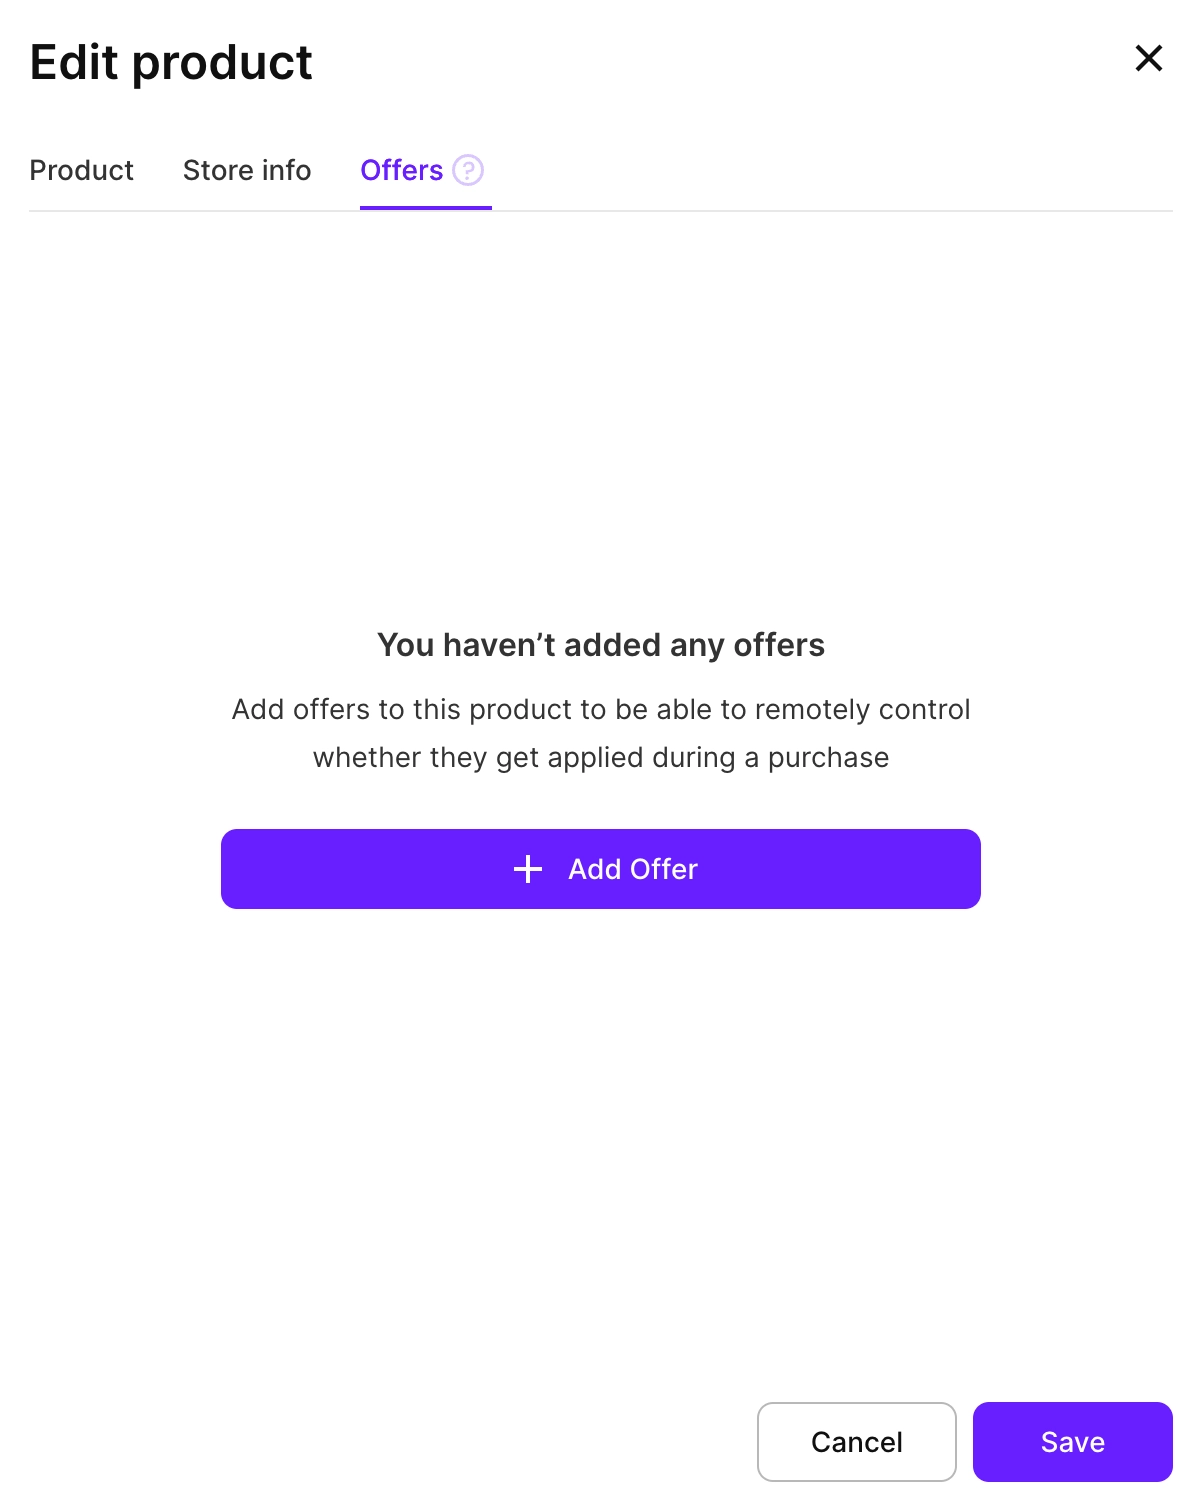
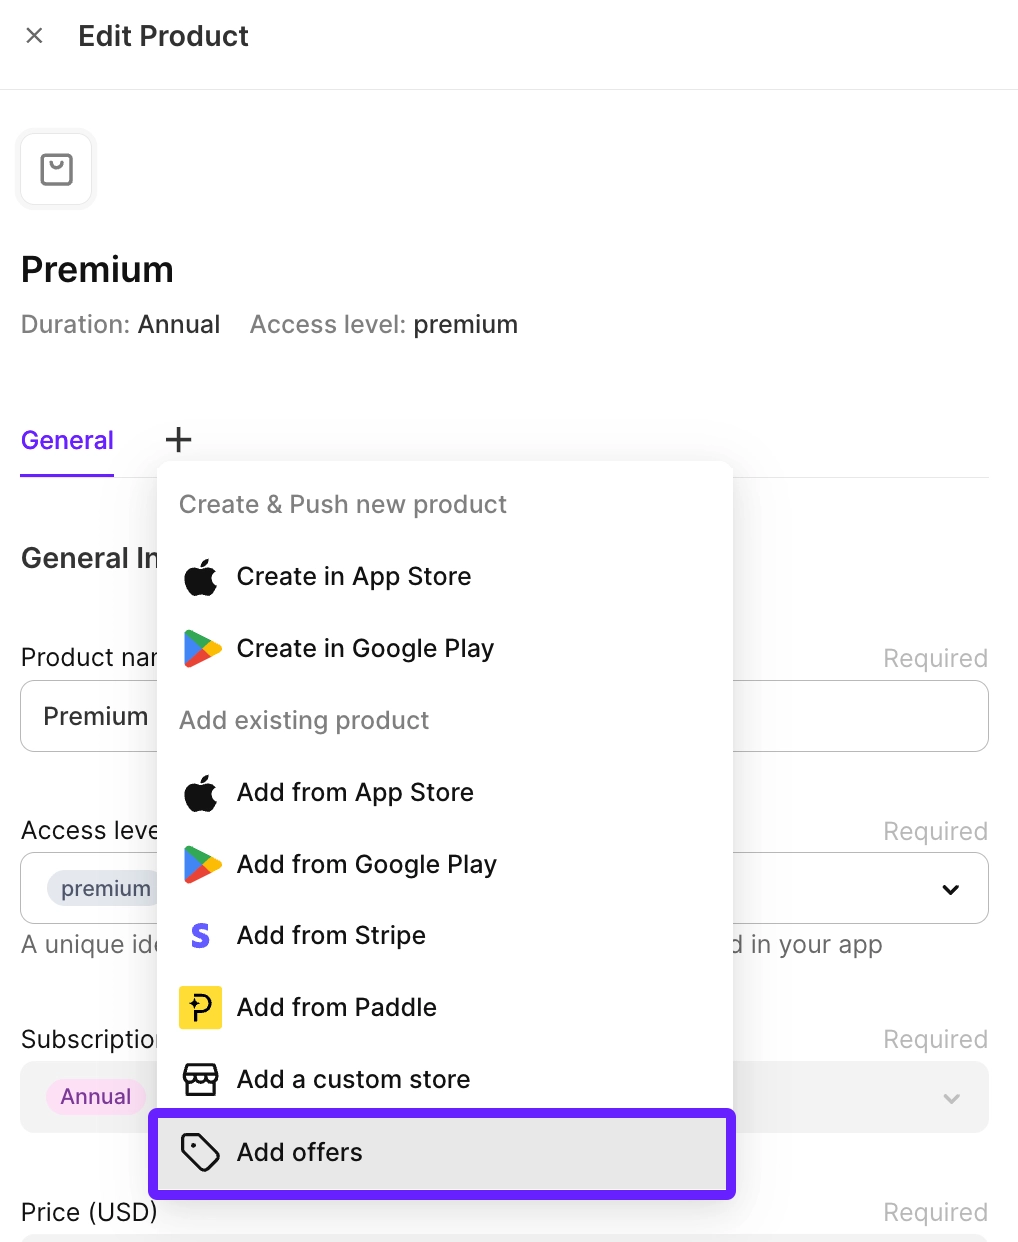
Update product-related docs and screenshots

diff --git a/versioned_docs/version-3.0/create-offer.md b/versioned_docs/version-3.0/create-offer.md
@@ -48,7 +48,7 @@ Once your promotional offer (for both the Play Store and App Store) or Win-back 
 />
 </Zoom>
 
-3. In the **Edit product** window, switch to the **Offers** tab and click **Add offer**.
+3. In the **Edit product** window, click **+** and select **Add offers**.
 
 <Zoom>
   <img src={require('./img/add-offer.webp').default}
@@ -61,7 +61,8 @@ Once your promotional offer (for both the Play Store and App Store) or Win-back 
 />
 </Zoom>
 
-4. Then enter the offer details for the product.
+4. Click **Add offer**.
+5. Then enter the offer details for the product.
 
    Here are the fields for the offer:
 
@@ -71,9 +72,9 @@ Once your promotional offer (for both the Play Store and App Store) or Win-back 
    - **Play Store Offer ID**: Similarly, this is the unique ID for the offer [that you set in the Play Store](android-products).
 
 :::tip
-If the **App Store Offer ID** or **Play Store Offer ID** field is not active, switch to the **Products** tab and add a product ID.
+If the **App Store Offer ID** or **Play Store Offer ID** field is not active, switch to the **Products** tab and select a product ID.
 :::
-
+ 
 <Zoom>
   <img src={require('./img/offers.webp').default}
   style={{
@@ -86,8 +87,8 @@ If the **App Store Offer ID** or **Play Store Offer ID** field is not active, sw
 </Zoom>
 
 
-5. (optional) Add more offers if needed by clicking **Add offer**.
-6. Click **Save** to add the offers to the product.
+6. (optional) Add more offers if needed by clicking **Add offer**.
+7. Click **Save** to add the offers to the product.
 
 ## 2. Add offer to paywall
 

diff --git a/versioned_docs/version-3.0/create-product.md b/versioned_docs/version-3.0/create-product.md
@@ -73,8 +73,8 @@ To add a new product to your app:
 5. Click **Save & Continue**.
 6. Configure the product information for App Store if you plan to publish there:
    - **Product ID**: Create a permanent unique ID for the product.
-   - **Product group**: Select an existing product group you've created in App Store Connect or click **Create new Product Group** and set its name and ID. After Adapty creates it, you can select it from the dropdown.
-   - **Screenshot**: Upload a screenshot of the in-app purchase that clearly shows the item or service being offered. This screenshot is used for the App Store review only and isn't displayed on the App Store.
+   - **Product group**: Select an existing product group you've created in App Store Connect or click **Create new Product Group** and set its name. After Adapty creates it, you can select it from the dropdown.
+   - **Screenshot**: Upload a screenshot of the in-app purchase that clearly shows the item or service being offered. This screenshot is used for the App Store review only and isn't displayed on the App Store. See the official Apple [recommendations and specifications](https://developer.apple.com/help/app-store-connect/manage-app-information/upload-app-previews-and-screenshots/) for submitting screenshots.
 
 <Zoom>
   <img src={require('./img/push-app-store.webp').default}
